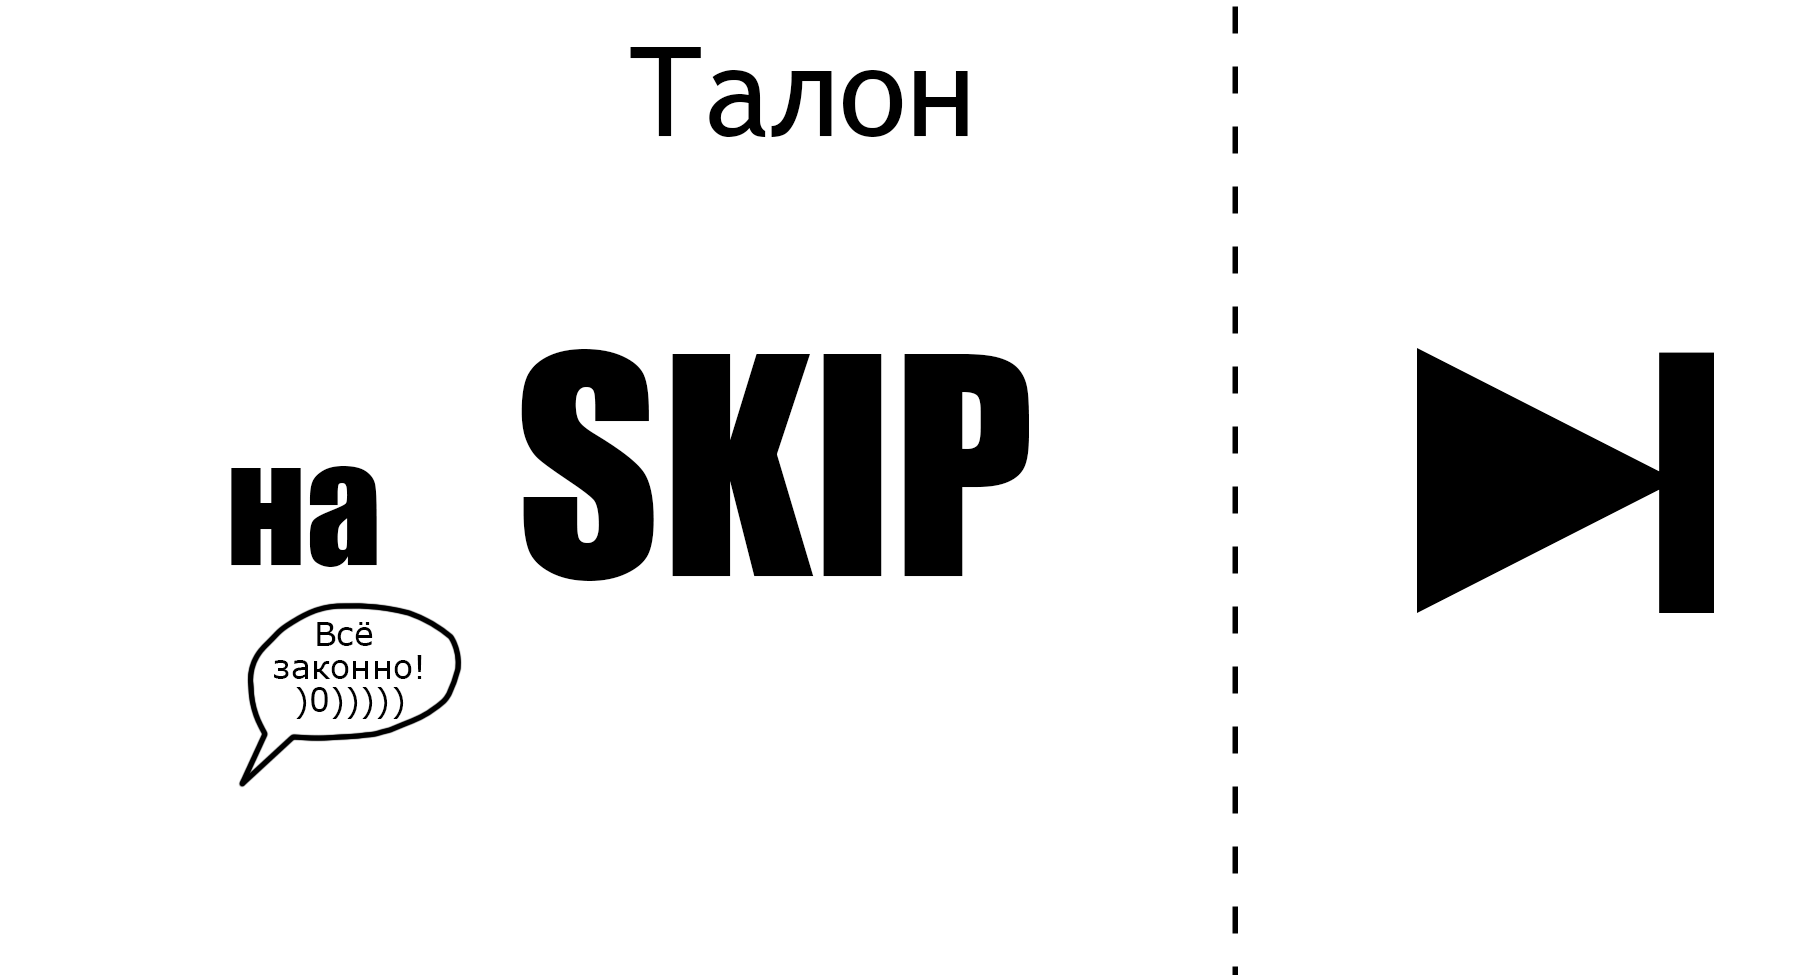
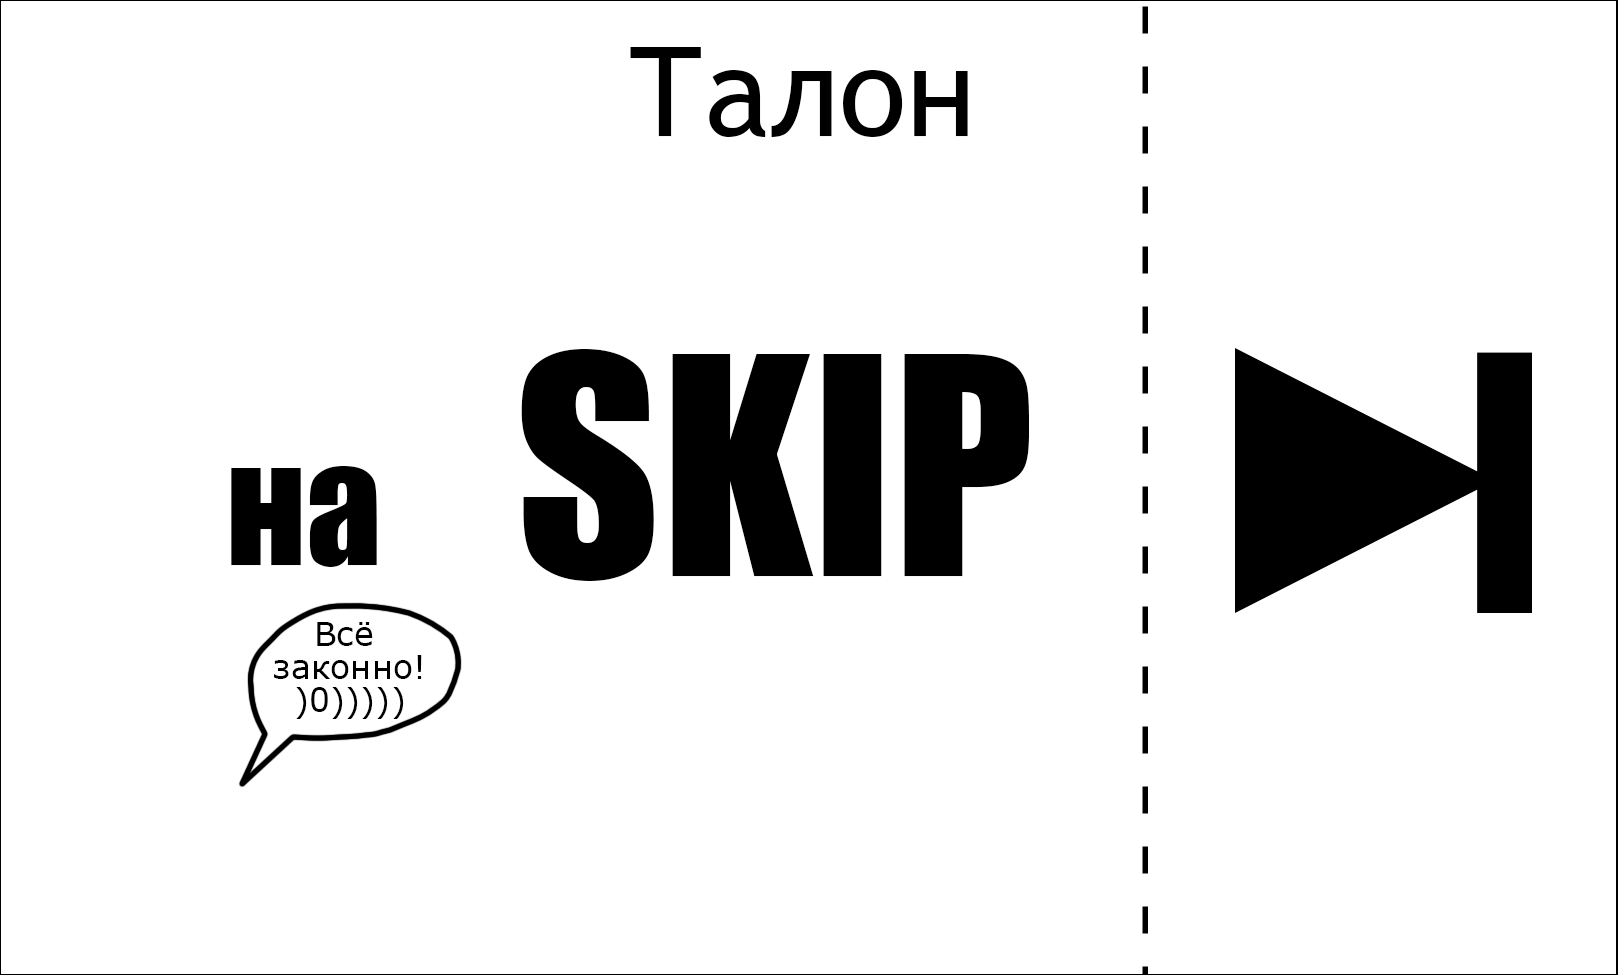
Add school Number and template fix

diff --git a/src/code/Ticket.java b/src/code/Ticket.java
@@ -37,7 +37,7 @@ public class Ticket {
     }
 
     public Image getResultScaledImage() {
-        return ImageUtils.resizeImage(resultImage,295, 159);
+        return ImageUtils.resizeImage(resultImage,295, 178);
     }
 
     public String getIndex(){
@@ -73,7 +73,7 @@ public class Ticket {
         Graphics2D gr = (Graphics2D) resultAwp.getGraphics();
         gr.setRenderingHint(RenderingHints.KEY_INTERPOLATION, RenderingHints.VALUE_INTERPOLATION_BICUBIC);
 
-        gr.drawImage(SwingFXUtils.fromFXImage(stamp, null), 1425, 45, null);
+        gr.drawImage(SwingFXUtils.fromFXImage(stamp, null), 1250, 45, null);
         //gr.drawImage(SwingFXUtils.fromFXImage(resizeImage(icon, 300,300), null), 150, 600, null);
 
         if(icon!=null) gr.drawImage(SwingFXUtils.fromFXImage(ImageUtils.fitByWidth(icon, 200), null), 60, 675, null);
@@ -81,6 +81,7 @@ public class Ticket {
         gr.setFont(new Font("Arial", Font.ITALIC, 30));
         gr.setColor(new Color(198, 198, 198));
         gr.drawString("Номер Талона: " + index, 330, 900);
+        gr.drawString(school, 80, 80);
         resultImage = SwingFXUtils.toFXImage(resultAwp, null);
     }
 

diff --git a/src/code/Controller.java b/src/code/Controller.java
@@ -79,8 +79,7 @@ public class Controller {
         //System.out.println("CREATED!");
         //FxDialogs.showInformation("Переменные", schoolName+"\n"+fio+"\n"+amount+"\n"+qrcode);
        // System.out.println("SHOWED!");
-        //preImage.setImage(preView.getResultImage());
-        preImage.setImage(preView.getResultScaledImage());
+        preImage.setImage(preView.getResultImage());
        // System.out.println("SETED!");
     }
 
